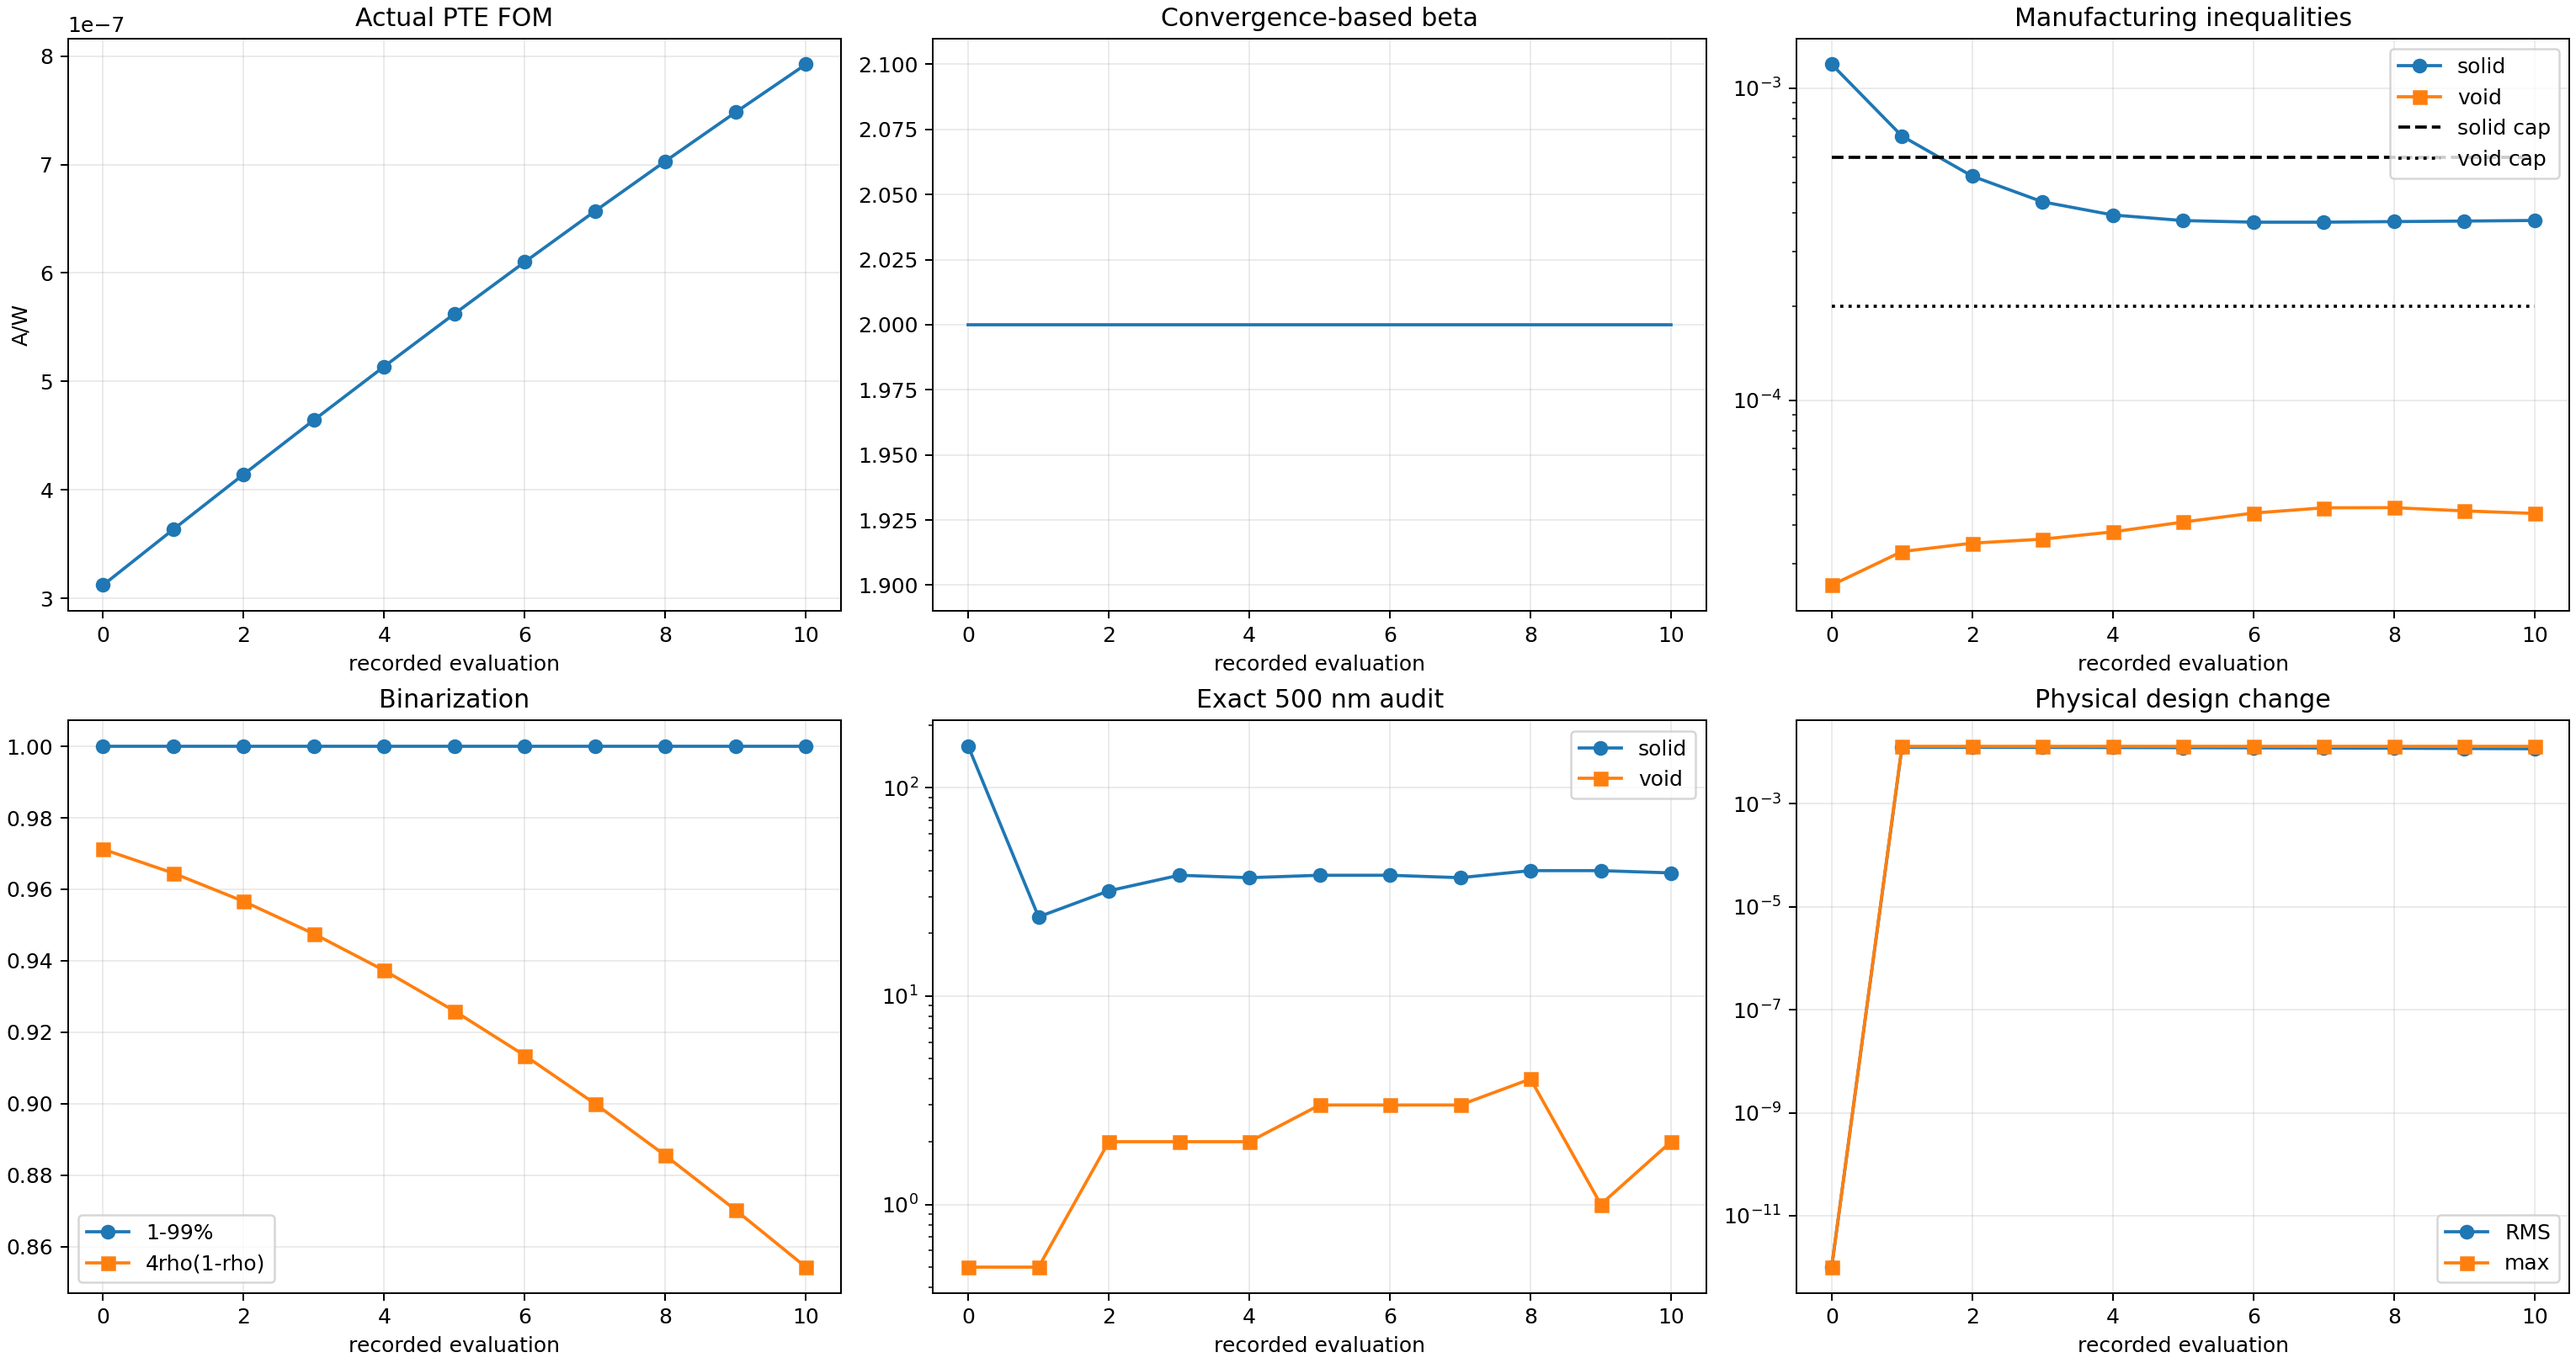
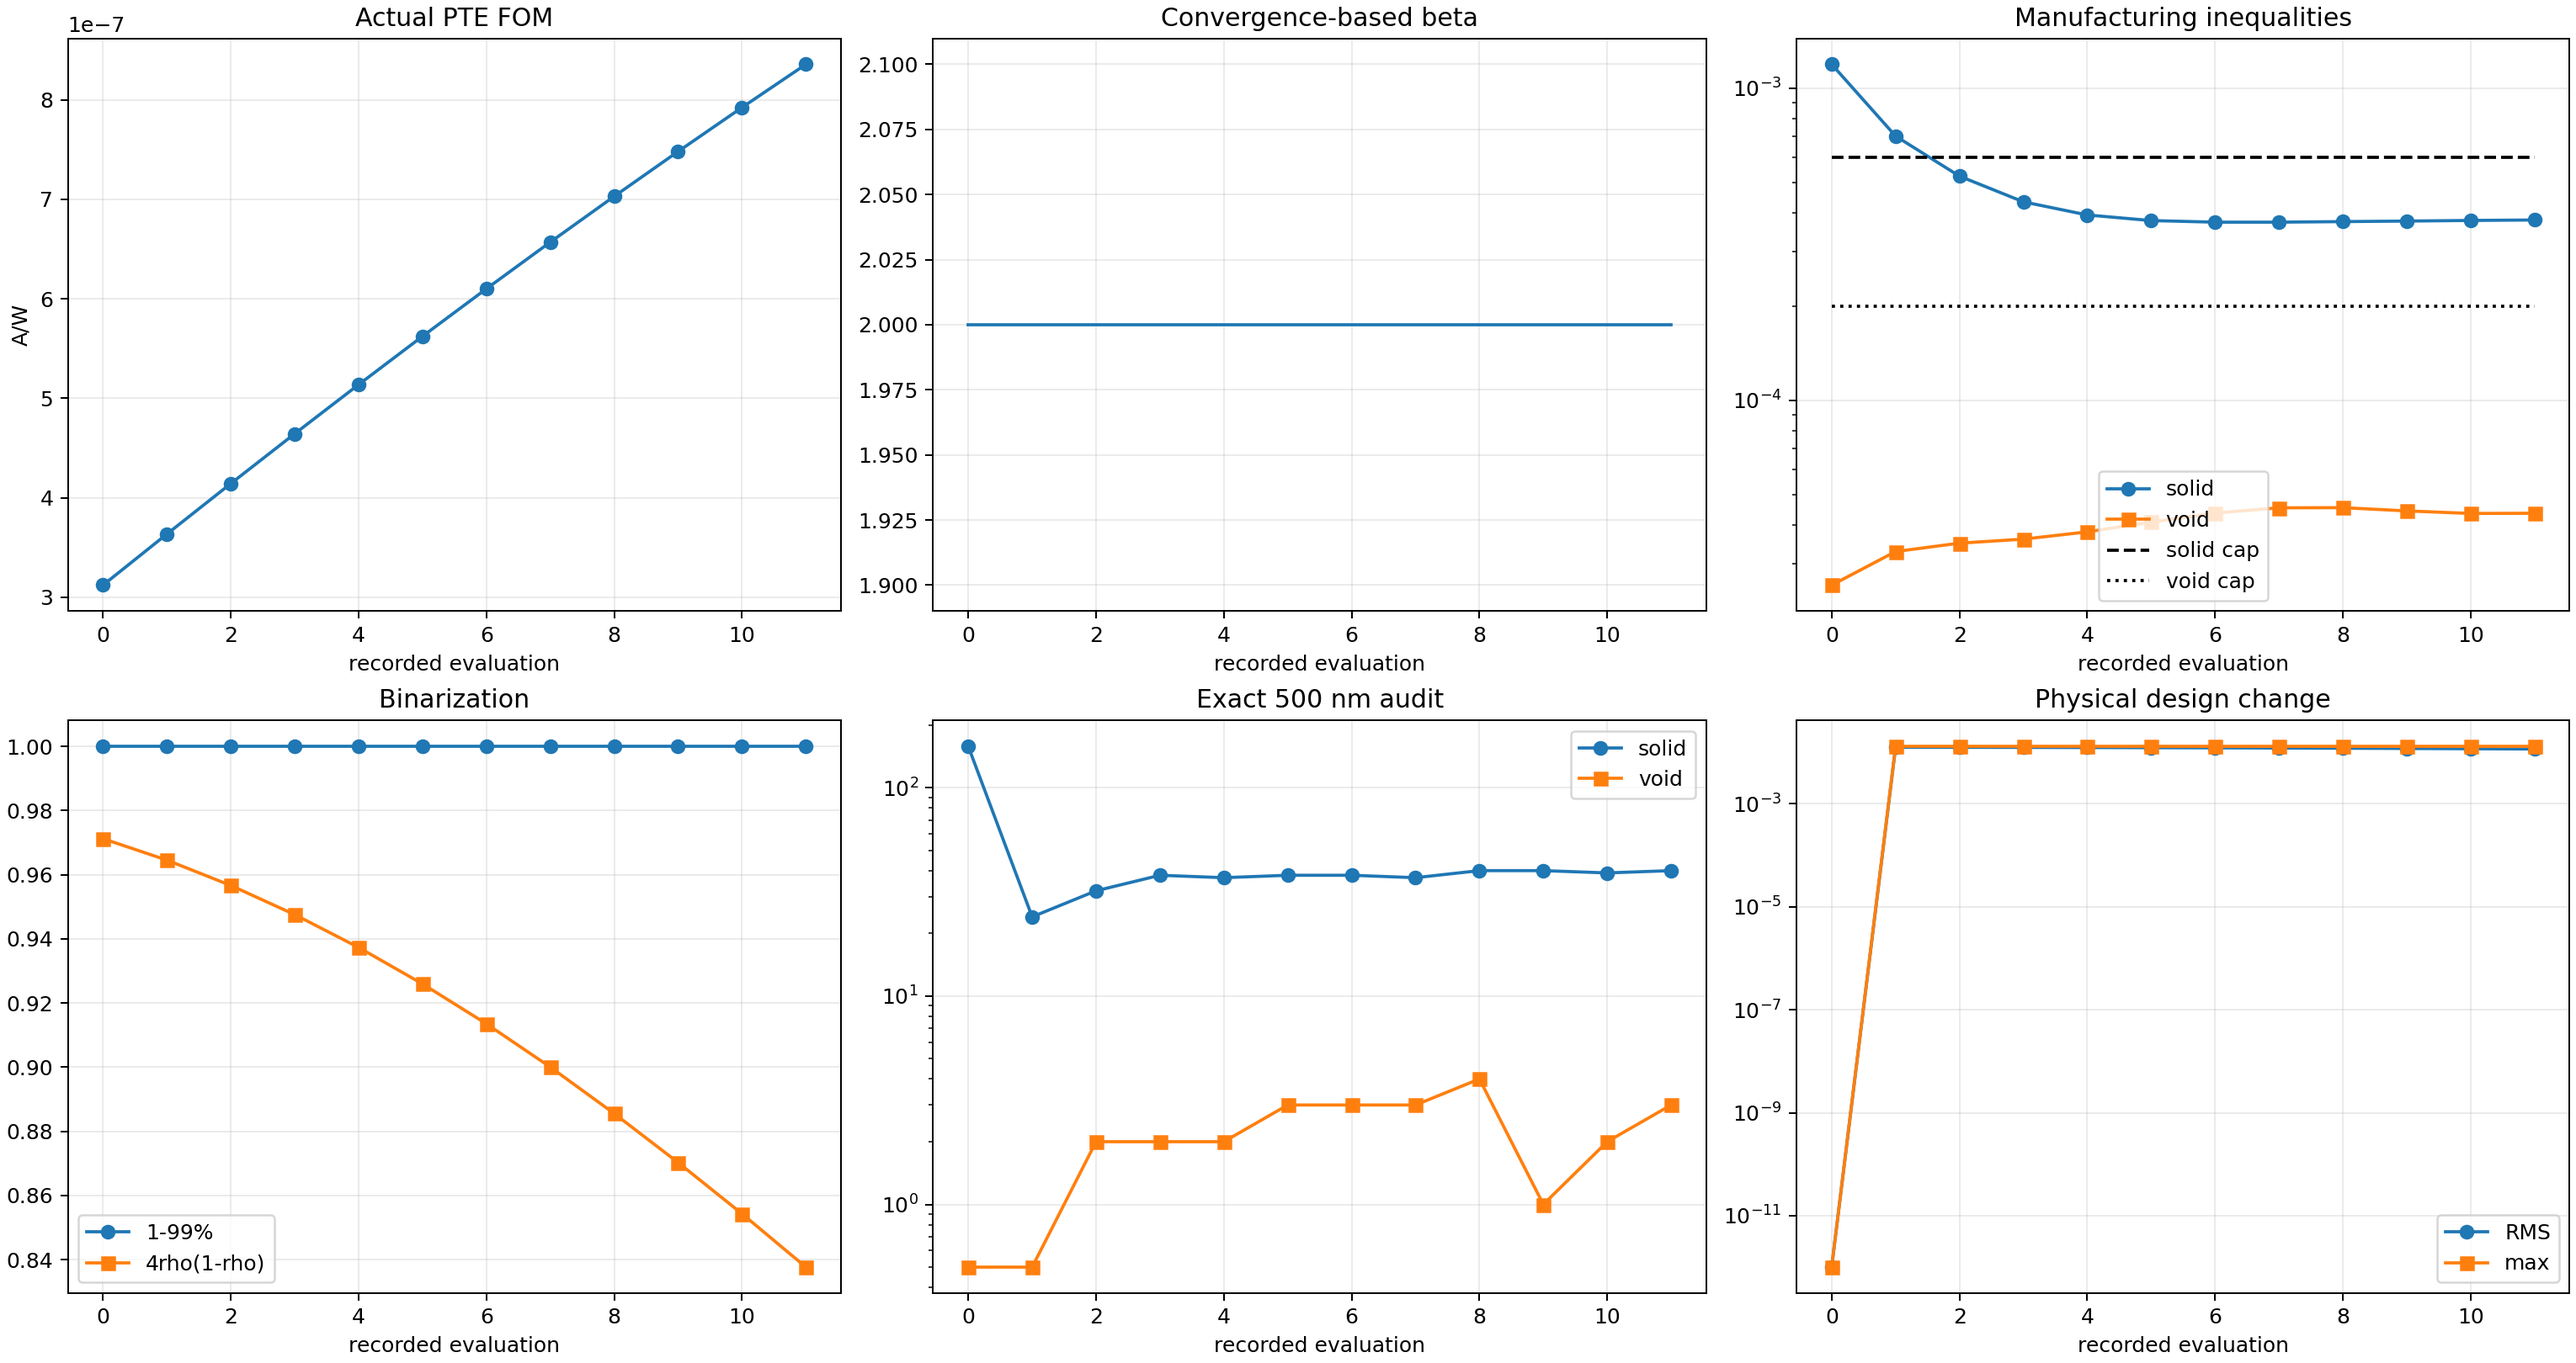
Record Run 005 run006_Ea_b002_s011_g011_accepted_mma

diff --git a/photothermal_pte/optimization_runs/run_006_corrected_Ea_pte_magnitude_max/results/OPTIMIZATION_REPORT.md b/photothermal_pte/optimization_runs/run_006_corrected_Ea_pte_magnitude_max/results/OPTIMIZATION_REPORT.md
@@ -2,12 +2,12 @@
 
 Status: `RUNNING_CORRECTED_EA_PTE_MAGNITUDE_OPTIMIZATION`
 
-Current stage: beta=2, accepted stage iteration=10, global iteration=10.
+Current stage: beta=2, accepted stage iteration=11, global iteration=11.
 
 Constraint contract: `soft_disk_opening_500nm_from_iteration_zero_v5`.
 
-Actual FOM: `7.923495005589e-07 A/W`. Fixed-cap solid/void constraints: `3.770663e-04` / `4.347619e-05` with caps `6.000000e-04` / `2.000000e-04`.
+Actual FOM: `8.357445667105e-07 A/W`. Fixed-cap solid/void constraints: `3.784002e-04` / `4.355191e-05` with caps `6.000000e-04` / `2.000000e-04`.
 
-Exact 500 nm bad cells: solid `39`, void `2`. Stage convergence: `False` (recent FOM/density changes have not plateaued).
+Exact 500 nm bad cells: solid `40`, void `3`. Stage convergence: `False` (recent FOM/density changes have not plateaued).
 
 Beta advances only after the stage FOM/density plateau. The run is not complete until the projected-binary and exact 500 nm gates pass and a fresh thresholded-binary GPU/CUDA evaluation succeeds.
